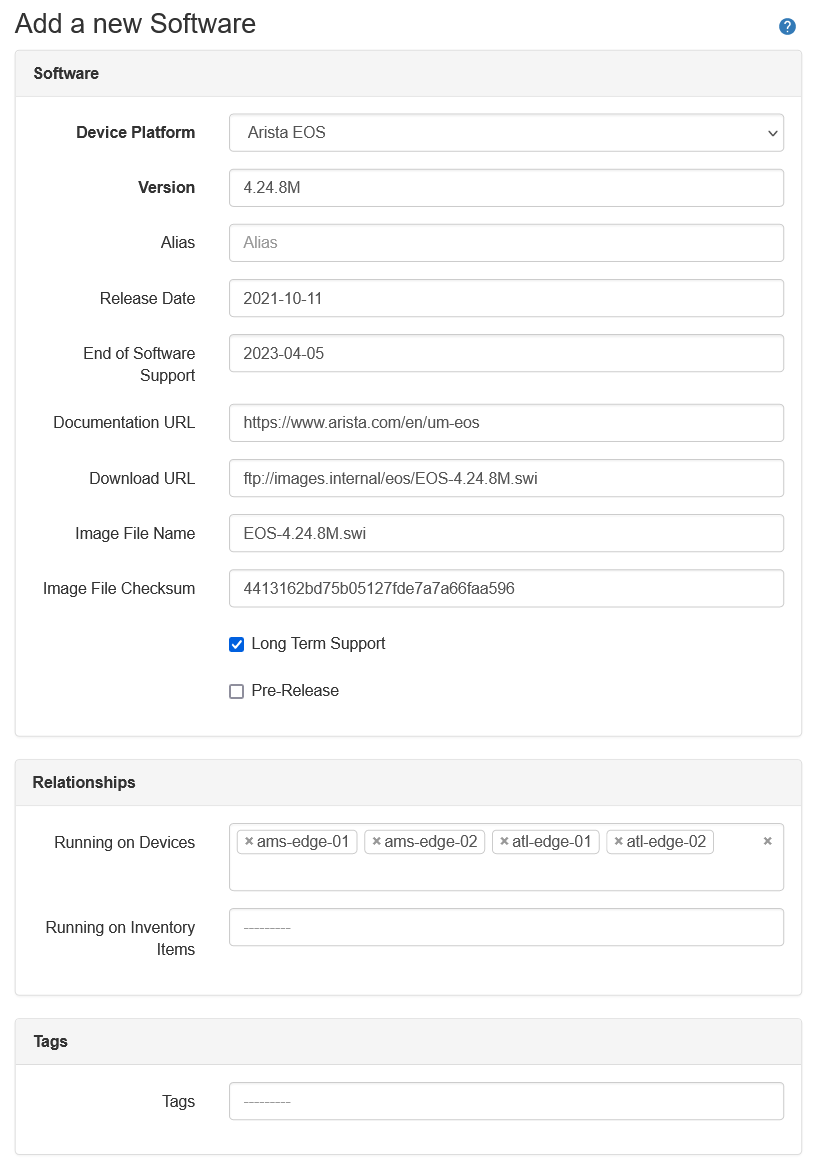
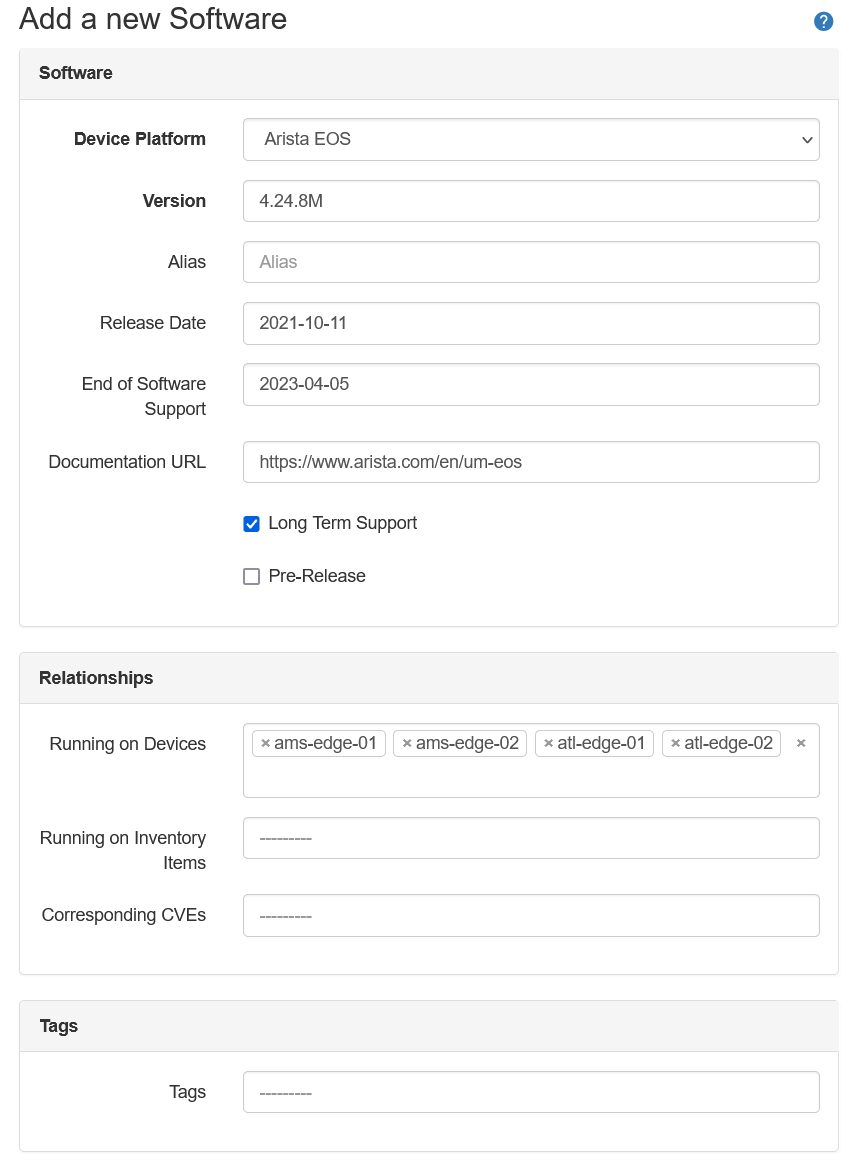
Update docs with Software Image info

diff --git a/docs/software_lifecycle.md b/docs/software_lifecycle.md
@@ -2,9 +2,11 @@
 
 The Software Lifecycle portion of the plugin helps in managing the lifecycle of the software running on the devices and inventory items.
 
-To help in achieving this goal the plugin provides two types of objects: Software and Validated Software.
+To help in achieving this goal the plugin provides three types of objects: Software, Software Image and Validated Software.
 
 Software objects can be used on their own and are used to record detailed information about a software release. These objects can then be associated with devices and inventory items to track the versions used by the infrastructure hardware.
+
+Software Image objects are used to record detailed information about software images linked to given Software version. They can be assigned to specific device types, inventory items and object tags.
 
 Validated Software objects are used to specify which versions of the Software are currently valid/approved within the organization, and for which subset of the devices/inventory items. Validated Software requires Software object to be defined before it can be created.
 
@@ -22,9 +24,6 @@ When creating the Software object, the following fields are available. Fields in
 | Release Date | Date when the software was released |
 | End of Software Support | Date when the support for this software version ends |
 | Documentation URL | URL pointing to the documentation for this software version |
-| Download URL | Either internal or external link to the image for this software |
-| Image File Name | Name of the image file |
-| Image File Checksum | MD5 or SHA checksum of the image file |
 | Long Term Support | Toggle to specify whether this software is designated as a long term support release |
 | Pre-Release | Toggle to specify whether this is a beta/pre-release version of the software |
 | Running on Devices | List of devices having this software assigned |
@@ -34,6 +33,137 @@ When creating the Software object, the following fields are available. Fields in
 Example of a Software object with most fields filled in:
 
 ![](images/lcm_software_software_add_example.png)
+
+## Software Image objects
+
+When creating the Software Image object, the following fields are available. Fields in **bold** are mandatory.
+
+| Field | Description |
+| -- | -- |
+| **Image File Name** | Name of the image file |
+| **Software** | Software object this Software Image object is tied to |
+| Download URL | Either internal or external link to the image for this software |
+| Image File Checksum | MD5 or SHA checksum of the image file |
+| Default Image | Marks this Software Image as the default image for the linked Software version |
+| Device Types -> Device types | Devices having these device types use this software image |
+| Inventory Items -> Inventory items | Inventory items whose software use this software image |
+| Object Tags -> Object tags | Devices and Inventory items with these tags use this software image |
+
+Example of a Software object with most fields filled in:
+
+![](images/lcm_software_image_add.png)
+
+## Software Image assignment rules
+
+Validated Image object can be assigned to:
+
+- device types
+- inventory items
+- object tags applied to devices and inventory items
+
+## Software Image constraints
+
+The following constrains apply to the Software Image objects:
+
+- Software Image file name must be unique across images linked to one Software version.
+- Only one default Software Image per Software version is allowed.
+- If Software Image is marked as the default, it cannot be assigned to specific objects. That it is, Software Image is either the default OR it applies to selected device types/inventory items/object tags.
+- No more than one Software Image, for given Software version, can be assigned to given device types/inventory items/object tags.
+- If Software Image is not marked as default or assigned to any objects, it won't be taken into account when computing software images for end objects (devices, inventory items).
+
+## Software Image - matching to devices and inventory items
+
+When using List view search form, or API, it's possible to pass device name, device id or inventory id as a filter. Plugin will then attempt to find a Software Image object that applies to devices and inventory items.
+
+To find a software image assigned to an object, that object must have Software assigned, and that Software must have at least Software Image linked to it.
+
+Order of preference:
+  - One of the Object Tags assigned to Software Image matches tag on Device/Inventory Item
+  - One of the Device Types assigned to Software Image matches the device type assigned to the Device
+  - One of the Inventory Items assigned to Software Image matches the inventory item
+  - Software Image marked as the default image
+
+**REST API example**
+
+Query:
+
+```
+GET {{NAUTOBOT_URL}}/api/plugins/nautobot-device-lifecycle-mgmt/software-image/?device_name=ams-leaf-02
+```
+
+Response:
+
+```json
+{
+    "count": 1,
+    "next": null,
+    "previous": null,
+    "results": [
+        {
+            "id": "a4ca2d1b-77d4-48a1-a7f4-caa67d0677fa",
+            "url": "http://172.29.183.193:8080/api/plugins/nautobot-device-lifecycle-mgmt/software-image/a4ca2d1b-77d4-48a1-a7f4-caa67d0677fa/",
+            "image_file_name": "4.24.8tag.img",
+            "software": {
+                "id": "271ea021-69fd-4d8d-8cff-d367fa30ef08",
+                "url": "http://172.29.183.193:8080/api/plugins/nautobot-device-lifecycle-mgmt/software/271ea021-69fd-4d8d-8cff-d367fa30ef08/",
+                "device_platform": "835e363f-c922-4540-b0c0-aaeac2a1be15",
+                "version": "4.24.8M",
+                "end_of_support": "2023-04-05",
+                "display": "Arista EOS - 4.24.8M"
+            },
+            "device_types": [],
+            "inventory_items": [],
+            "object_tags": [
+                "2b7bc5dc-a640-4686-b887-8986f1a2a5e2",
+                "e0df521c-b772-4581-a0a3-d6cd7c1c2b2b"
+            ],
+            "download_url": "",
+            "image_file_checksum": "",
+            "default_image": false,
+            "custom_fields": {},
+            "tags": [],
+            "display": "4.24.8tag.img"
+        }
+    ]
+}
+
+```
+
+**GraphQL API example**
+
+Query:
+
+```graphql
+query {
+  software_images(device_name: "ams-leaf-02") {
+    software {
+      version
+    }
+    image_file_name
+    image_file_checksum
+    download_url
+  }
+}
+```
+
+Response:
+
+```json
+{
+  "data": {
+    "software_images": [
+      {
+        "software": {
+          "version": "4.24.8M"
+        },
+        "image_file_name": "EOS-4.24.8M.swi",
+        "image_file_checksum": "EOS-4.24.8M.swi",
+        "download_url": "ftp://images.internal/eos/EOS-4.24.8M.swi"
+      }
+    ]
+  }
+}
+```
 
 ## Validated Software objects
 
@@ -142,7 +272,7 @@ To get a list of Validated Software objects that match given device/inventory it
     }
     ```
 
-    ```
+    ```json
     {
         "data": {
             "validated_softwares": [
@@ -169,7 +299,7 @@ To get a list of Validated Software objects that match given device/inventory it
     {{NAUTOBOT_URL}}/api/plugins/nautobot-device-lifecycle-mgmt/validated-software/?device_name=ams-edge-01
     ```
 
-    ```
+    ```json
     {
         "count": 2,
         "next": null,
@@ -250,7 +380,7 @@ To get a list of Validated Software objects that match given device/inventory it
     }
     ```
 
-    ```
+    ```json
     {
     "data": {
         "validated_softwares": [
@@ -271,7 +401,7 @@ To get a list of Validated Software objects that match given device/inventory it
     {{NAUTOBOT_URL}}/api/plugins/nautobot-device-lifecycle-mgmt/validated-software/?inventory_item_id=33b0c49e-0ee9-409c-b136-f008a3cdf033
     ```
 
-    ```
+    ```json
     {
         "count": 1,
         "next": null,

diff --git a/README.md b/README.md
@@ -1,6 +1,6 @@
 # Nautobot Plugin - Device Lifecycle Management
 
-A plugin for [Nautobot](https://github.com/nautobot/nautobot) to manage device lifecycles. This plugin works by making related associations to Devices, Device Types, and Inventory Items to help provide data about the hardware end of life notices, appropriate software versions to be running on the devices, and the maintenance contracts associated with devices. This will help with the various aspects of planning life cycle events, and provides quick access to ancillary data about the devices in Nautobot.
+A plugin for [Nautobot](https://github.com/nautobot/nautobot) to manage device lifecycles. This plugin works by making related associations to Devices, Device Types, and Inventory Items to help provide data about the hardware end of life notices, appropriate software versions to be running on the devices, and the maintenance contracts associated with devices. This will help with the various aspects of planning Lifecycle events, and provides quick access to ancillary data about the devices in Nautobot.
 
 ## Installation
 
@@ -14,7 +14,7 @@ pip install nautobot-device-lifecycle-mgmt
 
 > The plugin is compatible with Nautobot 1.1.6 and higher
 
-To ensure Nautobot Device Life Cycle Management plugin is automatically re-installed during future upgrades, create a file named `local_requirements.txt` (if not already existing) in the Nautobot root directory (alongside `requirements.txt`) and list the `nautobot-plugin-device-lifecycle-mgmt` package:
+To ensure Nautobot Device Lifecycle Management plugin is automatically re-installed during future upgrades, create a file named `local_requirements.txt` (if not already existing) in the Nautobot root directory (alongside `requirements.txt`) and list the `nautobot-plugin-device-lifecycle-mgmt` package:
 
 ```no-highlight
 # echo nautobot-device-lifecycle-mgmt >> local_requirements.txt
@@ -140,14 +140,14 @@ Each command can be executed with `invoke <command>`. All commands support the a
 
 ## Screenshots
 
-### Hardware: Device Life Cycle Management List View
+### Hardware: Device Lifecycle Management List View
 
 You can view the list of Hardware/Software notices as well as filter the table.
 
 ![](docs/images/lcm_hardware_list_view.png)
 
 
-### Hardware: Device Life Cycle Management Detail View
+### Hardware: Device Lifecycle Management Detail View
 
 You can also click a Hardware/Software Notice and see the detail view. This view provides links to the devices that are part affected by this EoX notice due to their device type.
 
@@ -165,39 +165,51 @@ This provides the same UI element as the device view, but within the specific de
 
 ![](docs/images/lcm_hardware_device_type_view.png)
 
-### Contracts: Device Life Cycle Management Contract Detail View
+### Contracts: Device Lifecycle Management Contract Detail View
 
 You can view the details of a contract along with the primary and escalation contacts. This view will also give you an association to the devices under this contract.
 
 ![](docs/images/lcm_contract_detail.png)
 
 
-### Contracts: Device Life Cycle Management Contract Provider View
+### Contracts: Device Lifecycle Management Contract Provider View
 
 You can view the details of a provider, along with a listing of the service contracts associated to the provider. Contracts that are expired will display in red.
 
 ![](docs/images/lcm_contract_provider_detail.png)
 
-### Software: Software Life Cycle Management List View
+### Software: Software Lifecycle Management List View
 
 You can view the list of Software versions as well as filter the table.
 
 ![](docs/images/lcm_software_list_view.png)
 
 
-### Software: Software Life Cycle Detail View
+### Software: Software Lifecycle Detail View
 
 You can also click a Software version and see the detail view. This view provides link to the list of devices and inventory items that are associated with this software object.
 
 ![](docs/images/lcm_software_detail_view.png)
 
-### Software: Validated Software Life Cycle Management List View
+### Software: Software Image Lifecycle List View
+
+You can view the list of Software Images as well as filter the table.
+
+![](docs/images/lcm_software_image_list_view.png)
+
+### Software: Software Image Lifecycle Detail View
+
+You can also click a Software Images image name and see the detail view. This view provides view of the device types and inventory item attributes this software image applies to.
+
+![](docs/images/lcm_software_image_detail_view.png)
+
+### Software: Validated Software Lifecycle Management List View
 
 You can view the list of Validated Software versions as well as filter the table.
 
 ![](docs/images/lcm_validated_software_list_view.png)
 
-### Software: Validated Software Life Cycle Detail View
+### Software: Validated Software Lifecycle Detail View
 
 You can also click a Validated Software version and see the detail view. This view provides view of the device and inventory item attributes this validated software applies to.
 
